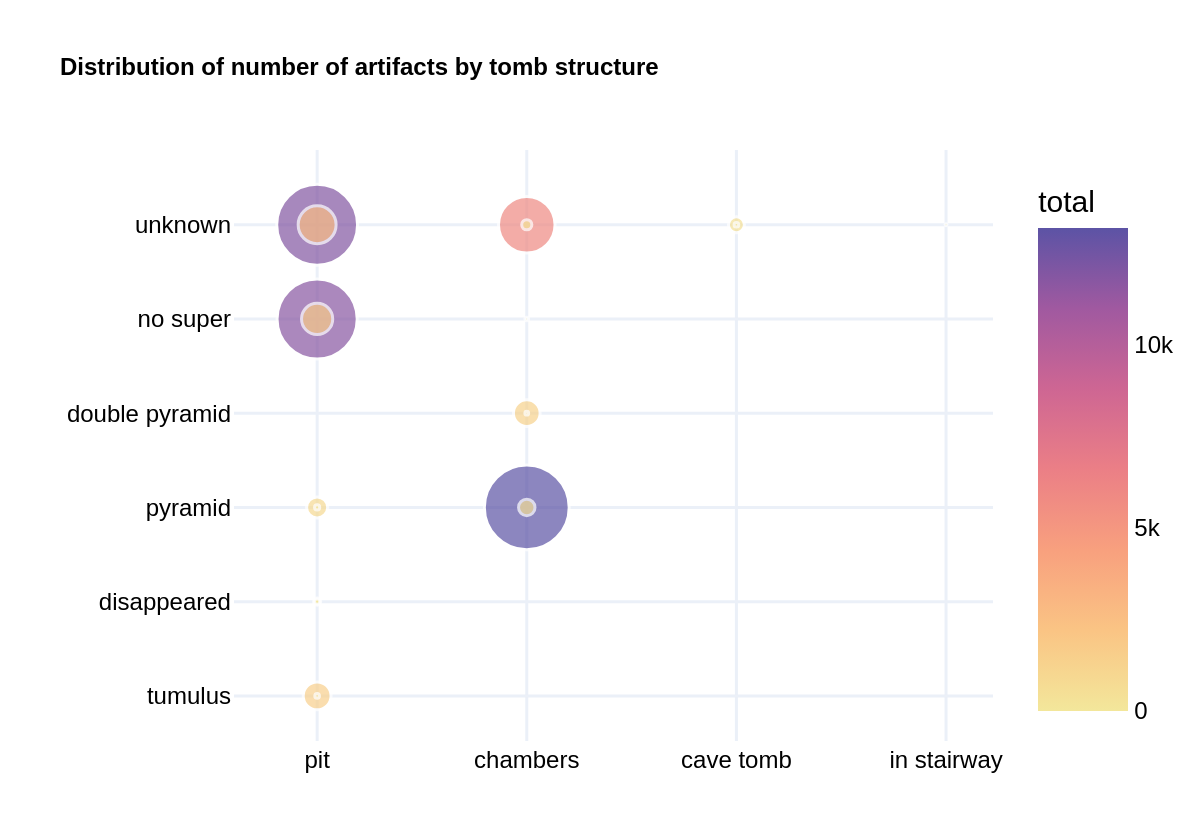
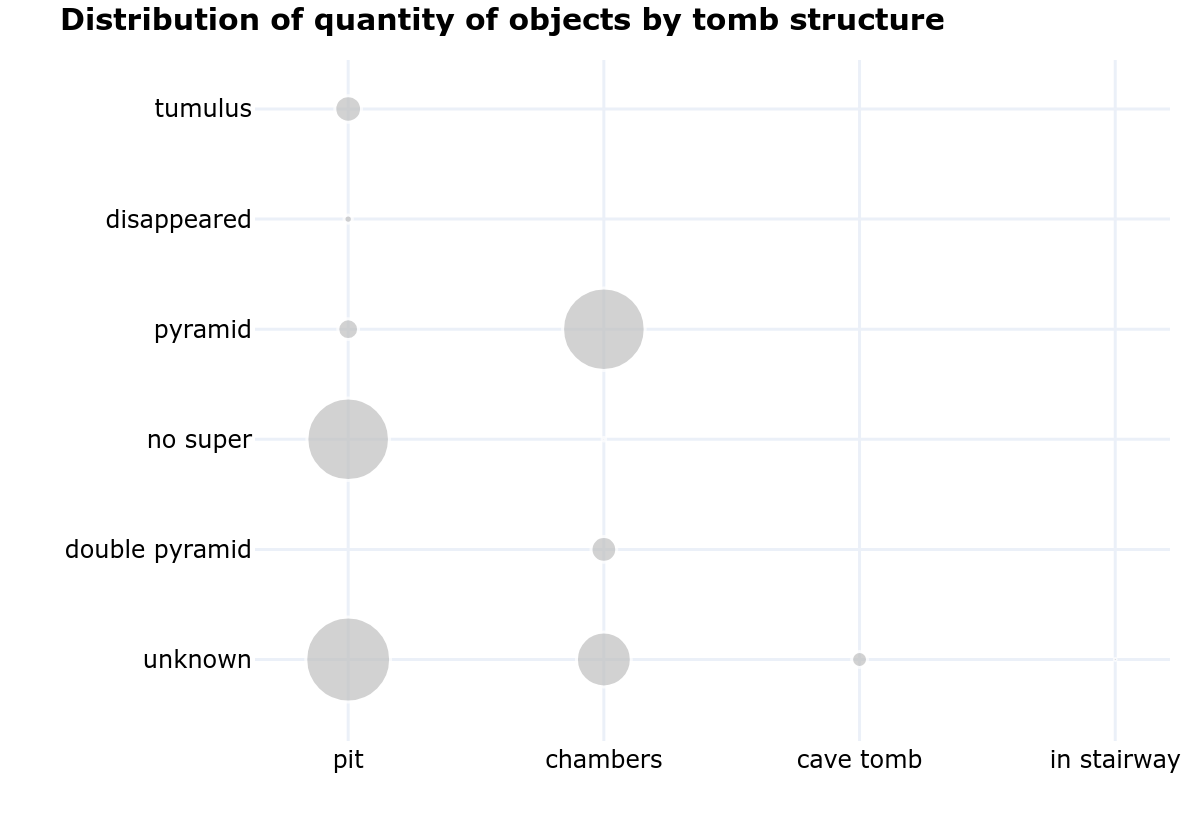
corrected chapter 2 graphs

diff --git a/diversenile/quantity_tomb.py b/diversenile/quantity_tomb.py
@@ -6,29 +6,37 @@ from sqlalchemy import create_engine
 engine = create_engine(f'mysql+pymysql://{os.getenv"DB_USER")}:{os.getenv("DB_PASSWORD")}@localhost/{os.getenv("DB_NAME")}')
 
 query = """
+WITH combined_data AS (
+    SELECT
+        b.sub,
+        b.super,
+        a.artifact_id AS item_id,
+        'artifact' AS item_type
+    FROM artifacts a
+    JOIN burials b ON b.burial_id = a.burial_id
+    WHERE dating = 'napatan' 
+        AND sub != 'deposit'
+        AND b.site_id IN (1,2,4,5,6,7,8,9,10)
+    
+    UNION ALL
+    
+    SELECT
+        b.sub,
+        b.super,
+        am.amulet_id AS item_id,
+        'amulet' AS item_type
+    FROM amulets am
+    JOIN burials b ON b.burial_id = am.burial_id
+    WHERE dating = 'napatan' 
+        AND sub != 'deposit'
+        AND b.site_id IN (1,2,4,5,6,7,8,9,10)
+)
 SELECT
-    b.sub,
-    b.super,
-    COUNT(a.artifact_id) AS total
-FROM artifacts a
-JOIN burials b ON b.burial_id = a.burial_id
-WHERE dating = 'napatan' 
-AND sub != 'deposit'
-AND b.site_id IN (1,2,4,5,6,7,8,9,10)
-GROUP BY 1,2
-
-UNION ALL
-
-SELECT
-    b.sub,
-    b.super,
-    COUNT(am.amulet_id) AS total
-FROM amulets am
-JOIN burials b ON b.burial_id = am.burial_id
-WHERE dating = 'napatan' 
-AND sub != 'deposit'
-AND b.site_id IN (1,2,4,5,6,7,8,9,10)
-GROUP BY 1,2
+    sub,
+    super,
+    COUNT(DISTINCT item_id) AS total
+FROM combined_data
+GROUP BY 1, 2
 """
 
 df = pd.read_sql(query, engine)
@@ -37,12 +45,12 @@ fig = px.scatter(
     df,
     x='sub',
     y='super',
-    color='total',
     size='total',
     #text='total',
-    title='<b>Distribution of number of artifacts by tomb structure</b>',
-    color_continuous_scale='Sunset',
+    title='<b>Distribution of quantity of objects by tomb structure</b>',
+    color_discrete_sequence=['#C0C0C0'],
     template="plotly_white",
+    labels={"total": "Total"},
 )
 
 #fig.update_traces(textposition='outside')
@@ -50,7 +58,7 @@ fig.update_xaxes(title_text='')
 fig.update_yaxes(title_text='')
 
 fig.update_layout(
-    yaxis={'categoryorder': 'total ascending'}, 
+    xaxis={'categoryorder': 'total descending'}, 
     legend=dict(
         orientation="h",
         yanchor="top",
@@ -63,9 +71,9 @@ fig.update_layout(
         color="black",
         size=8),
     legend_title_text='',
-    margin=dict(l=0, r=10, t=50, b=0),
+    margin=dict(l=0, r=10, t=20, b=0),
     autosize=True,
-    title_font=dict(size=8)
+    title_font=dict(size=10)
     )
 
 pio.write_image(fig, 'diversenile/images/quantity_tomb.png',scale=3, width=400, height=280)

diff --git a/diversenile/inscribed_tomb.py b/diversenile/inscribed_tomb.py
@@ -6,31 +6,40 @@ from sqlalchemy import create_engine
 engine = create_engine(f'mysql+pymysql://{os.getenv"DB_USER")}:{os.getenv("DB_PASSWORD")}@localhost/{os.getenv("DB_NAME")}')
 
 query = """
-SELECT
-    a.artifact_inscribed AS inscribed,
-    b.sub,
-    b.super,
-    COUNT(a.artifact_id) AS total
-FROM artifacts a
-JOIN burials b ON b.burial_id = a.burial_id
-WHERE dating = 'napatan' 
-AND sub != 'deposit'
-AND b.site_id IN (1,2,4,5,6,7,8,9,10)
-GROUP BY 1,2,3
+WITH inscribed_items AS (
+    -- Get inscribed artifacts
+    SELECT
+        a.artifact_id AS item_id,
+        b.sub,
+        b.super
+    FROM artifacts a
+    JOIN burials b ON b.burial_id = a.burial_id
+    WHERE b.dating = 'napatan' 
+        AND b.sub != 'deposit'
+        AND b.site_id IN (1,2,4,5,6,7,8,9,10)
+        AND a.artifact_inscribed = 1
+    
+    UNION ALL
+    
+    -- Get inscribed amulets
+    SELECT
+        am.amulet_id AS item_id,
+        b.sub,
+        b.super
+    FROM amulets am
+    JOIN burials b ON b.burial_id = am.burial_id
+    WHERE b.dating = 'napatan' 
+        AND b.sub != 'deposit'
+        AND b.site_id IN (1,2,4,5,6,7,8,9,10)
+        AND am.inscribed = 1
+)
 
-UNION ALL
-
 SELECT
-    am.inscribed AS inscribed,
-    b.sub,
-    b.super,
-    COUNT(am.amulet_id) AS total
-FROM amulets am
-JOIN burials b ON b.burial_id = am.burial_id
-WHERE dating = 'napatan' 
-AND sub != 'deposit'
-AND b.site_id IN (1,2,4,5,6,7,8,9,10)
-GROUP BY 1,2,3;
+    sub,
+    super,
+    COUNT(item_id) AS total
+FROM inscribed_items
+GROUP BY 1,2
 """
 
 df = pd.read_sql(query, engine)
@@ -39,11 +48,10 @@ fig = px.scatter(
     df,
     x='sub',
     y='super',
-    color='total',
     size='total',
     #text='total',
     title='<b>Distribution of inscribed objects by tomb structure</b>',
-    color_continuous_scale='Sunset',
+    color_discrete_sequence=['#C0C0C0'],
     template="plotly_white",
 )
 
@@ -65,9 +73,9 @@ fig.update_layout(
         color="black",
         size=8),
     legend_title_text='',
-    margin=dict(l=0, r=10, t=50, b=0),
+    margin=dict(l=0, r=10, t=20, b=0),
     autosize=True,
-    title_font=dict(size=8)
+    title_font=dict(size=10)
     )
 
-pio.write_image(fig, 'diversenile/images/inscribed_tomb.png',scale=4, width=400, height=280)
+pio.write_image(fig, 'diversenile/images/inscribed_tomb.png',scale=4, width=450, height=250)

diff --git a/diversenile/burial_tombs.py b/diversenile/burial_tombs.py
@@ -29,7 +29,7 @@ fig = px.scatter(
     color='type',
     size='total',
     #text='total',
-    title='<b>Distribution of objects for the burial by tomb structure</b>',
+    title='<b>Distribution of burial-specific objects by tomb structure</b>',
     color_discrete_sequence=px.colors.qualitative.Plotly,
     template="plotly_white",
 )
@@ -45,16 +45,16 @@ fig.update_layout(
         yanchor="top",
         y=-0.10,
         xanchor="center",
-        x=0.50),
+        x=0.40),
         #traceorder='reversed'),
     font=dict(
         family="Verdana, sans-serif",
         color="black",
         size=8),
     legend_title_text='',
-    margin=dict(l=0, r=10, t=50, b=0),
+    margin=dict(l=0, r=10, t=20, b=0),
     autosize=True,
-    title_font=dict(size=8)
+    title_font=dict(size=10)
     )
 
-pio.write_image(fig, 'diversenile/images/burial_tombs.png',scale=4, width=550, height=300)
+pio.write_image(fig, 'diversenile/images/burial_tombs.png',scale=4, width=550, height=250)

diff --git a/diversenile/material_tomb.py b/diversenile/material_tomb.py
@@ -29,7 +29,7 @@ fig = px.scatter(
     color='material',
     size='total',
     #text='total',
-    title='<b>Distribution of selected object materials across tomb structures</b>',
+    title='<b>Distribution of "prestigious" object materials across tomb structures</b>',
     color_discrete_sequence=px.colors.qualitative.Plotly,
     template="plotly_white",
 )
@@ -52,9 +52,9 @@ fig.update_layout(
         color="black",
         size=8),
     legend_title_text='',
-    margin=dict(l=0, r=10, t=50, b=0),
+    margin=dict(l=0, r=10, t=20, b=0),
     autosize=True,
-    title_font=dict(size=8)
+    title_font=dict(size=10)
     )
 
-pio.write_image(fig, 'diversenile/images/materials_tomb.png',scale=3, width=450, height=280)
+pio.write_image(fig, 'diversenile/images/materials_tomb.png',scale=4, width=450, height=250)

diff --git a/diversenile/tombs.py b/diversenile/tombs.py
@@ -23,11 +23,10 @@ fig = px.scatter(
     df,
     x='sub',
     y='super',
-    color='total',
     size='total',
     #text='total',
-    title='<b>Correlation of super- and substructures</b>',
-    color_continuous_scale='Sunset',
+    title='<b>Correlation of tomb super- and substructures</b>',
+    color_discrete_sequence=['#C0C0C0'],
     template="plotly_white",
 )
 
@@ -49,9 +48,9 @@ fig.update_layout(
         color="black",
         size=8),
     legend_title_text='',
-    margin=dict(l=0, r=10, t=50, b=0),
+    margin=dict(l=0, r=10, t=20, b=0),
     autosize=True,
-    title_font=dict(size=8)
+    title_font=dict(size=10)
     )
 
 pio.write_image(fig, 'diversenile/images/tombs.png',scale=4, width=400, height=280)
